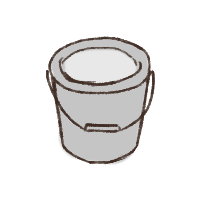
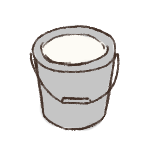
plants

Changed region(s): [[0.1867, 0.16, 0.8, 0.88]]

diff --git a/main.html b/main.html
@@ -46,11 +46,12 @@
 
         <img data-bs-placement="top" data-bs-toggle="popover" 
     data-bs-title="Vitamin B5, B7" data-bs-content="And here's some amazing content. It's very engaging. Right?"
-    src="images/pail.png" style="position:absolute; top: 580px; right:50px; width: 7%; height: auto;"/>
+    src="images/pail.png" style="position:absolute; top: 580px; right:75px; width: 6%; height: auto;"/>
 
         <img data-bs-placement="top" data-bs-toggle="popover" 
     data-bs-title="Vitamin C" data-bs-content="And here's some amazing content. It's very engaging. Right?"
     src="images/orange.png" style="position:absolute; top: 500px; left:20px; width: 25%; height: auto;"/>
+
 
 
     </div>
